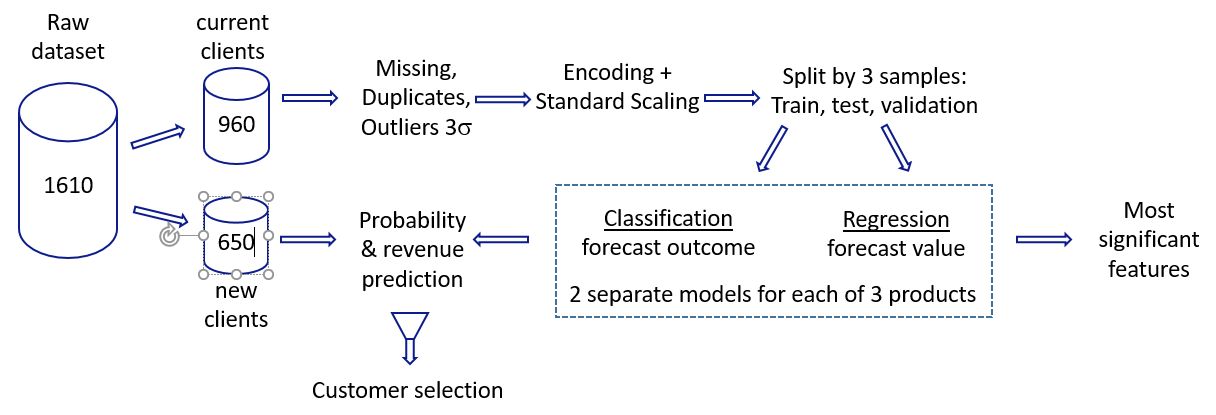
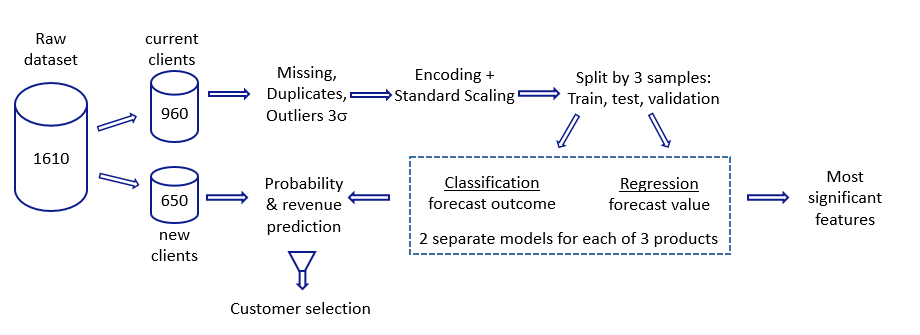
upd diagram

diff --git a/README.md b/README.md
@@ -20,7 +20,8 @@ It was developed revenue maximization strategy aimed at revenue maximization. Th
 
 The solution flow diagram is shown below
 <p align="center"> 
-<img src="./figures/Scheme.png" width="800"> </p>
+<img src="./figures/Scheme.png" width="700"> 
+</p>
 
 
 ## Project structure
